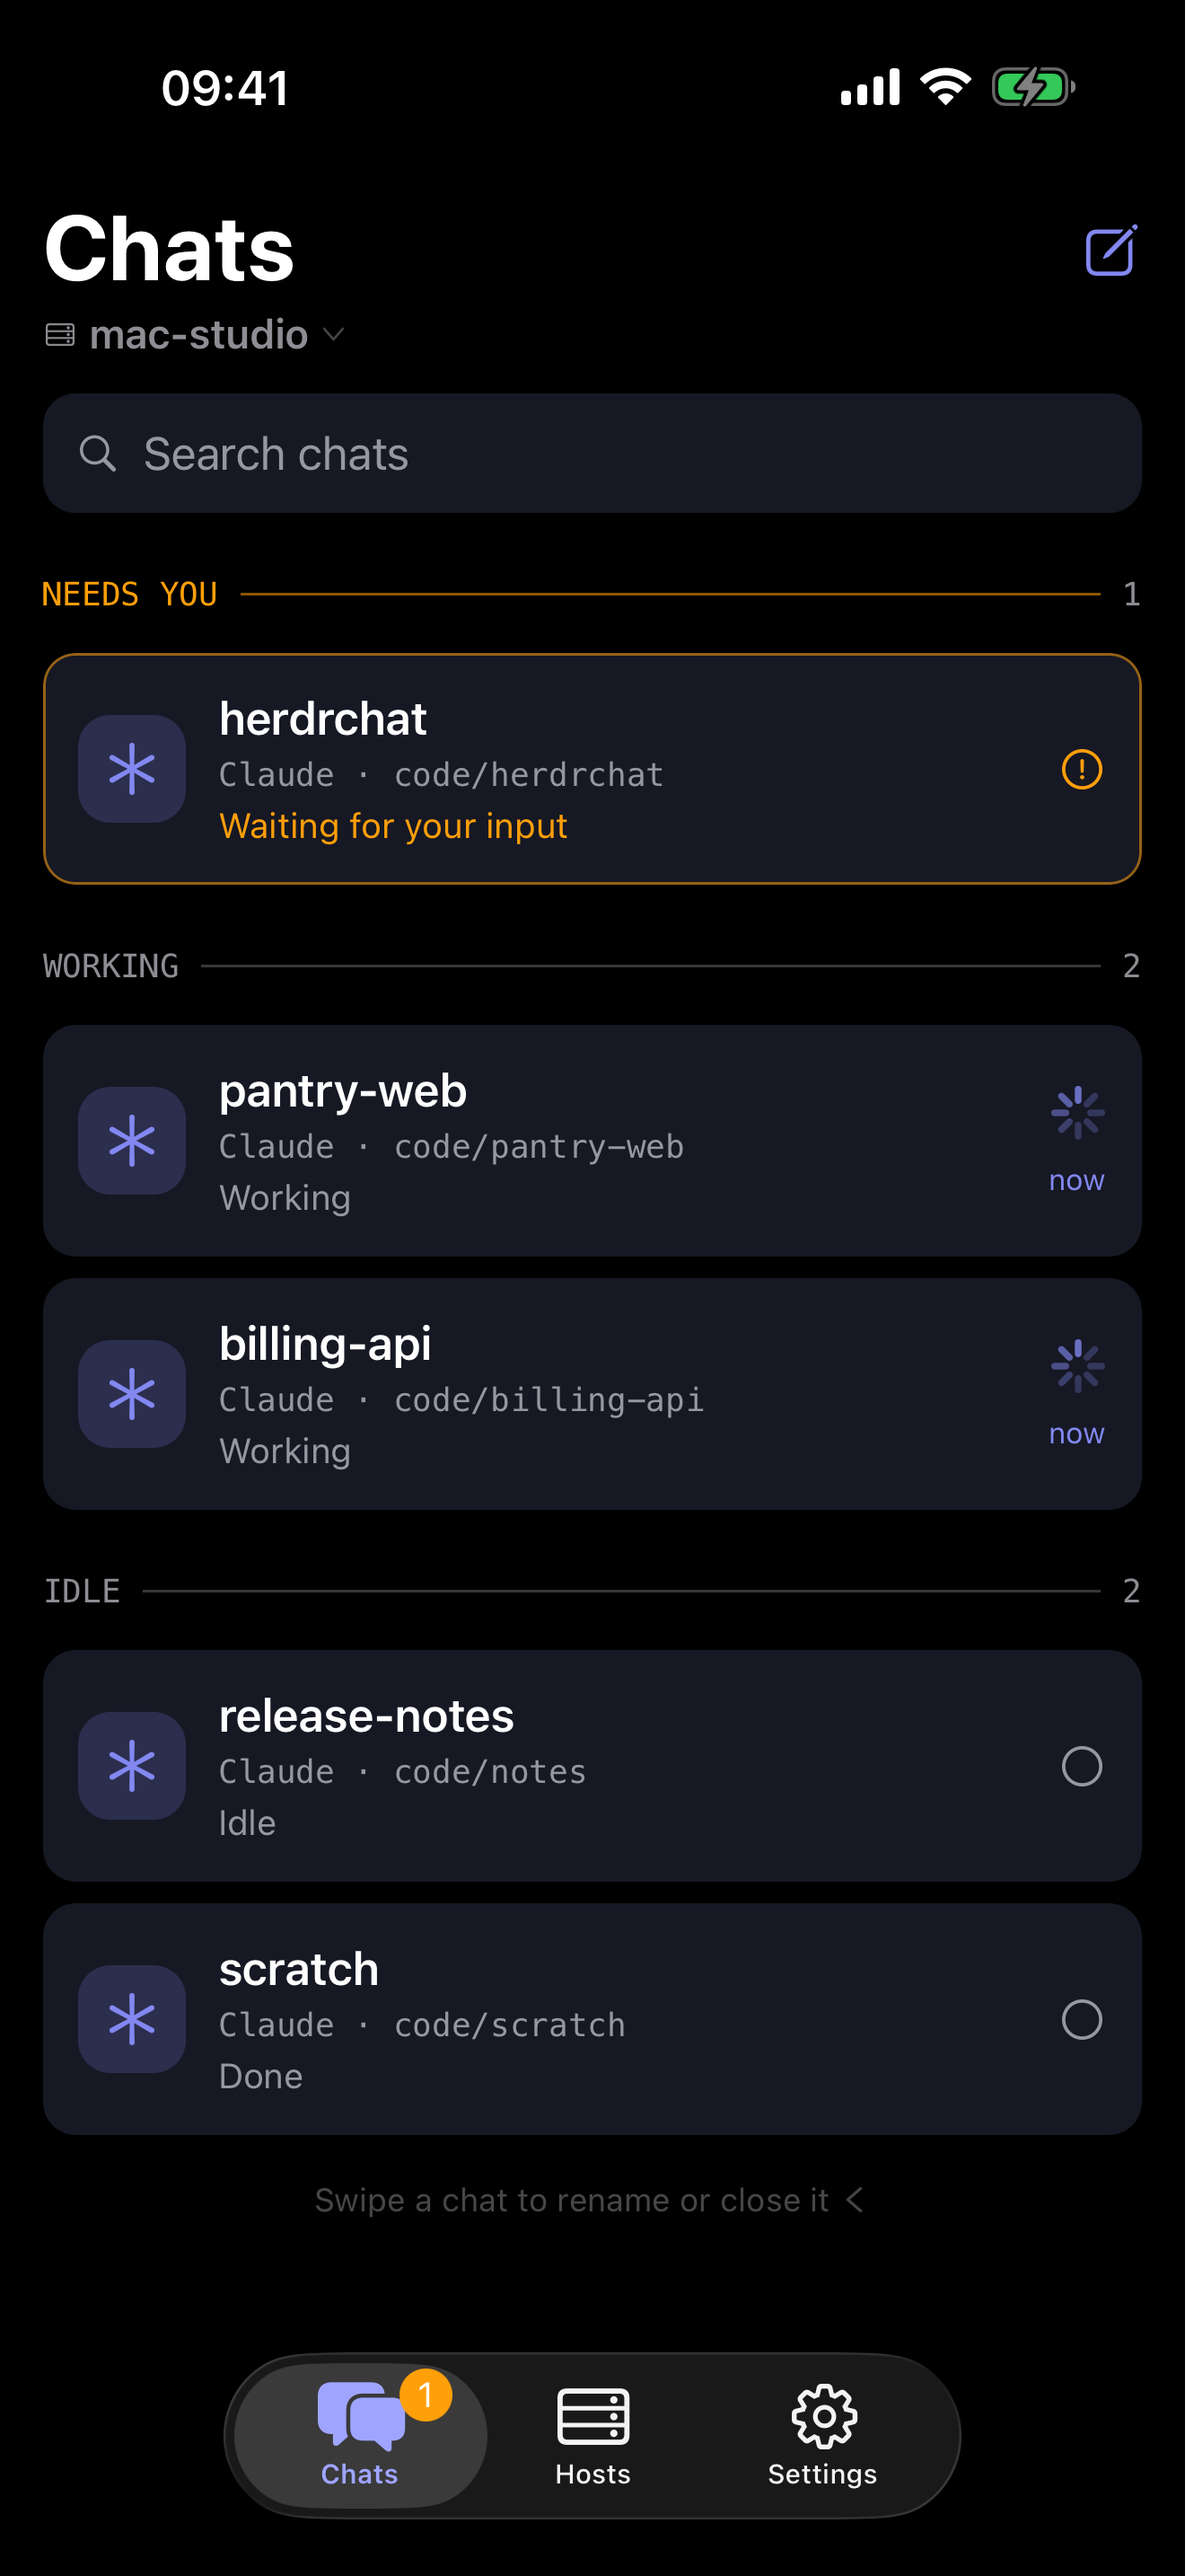
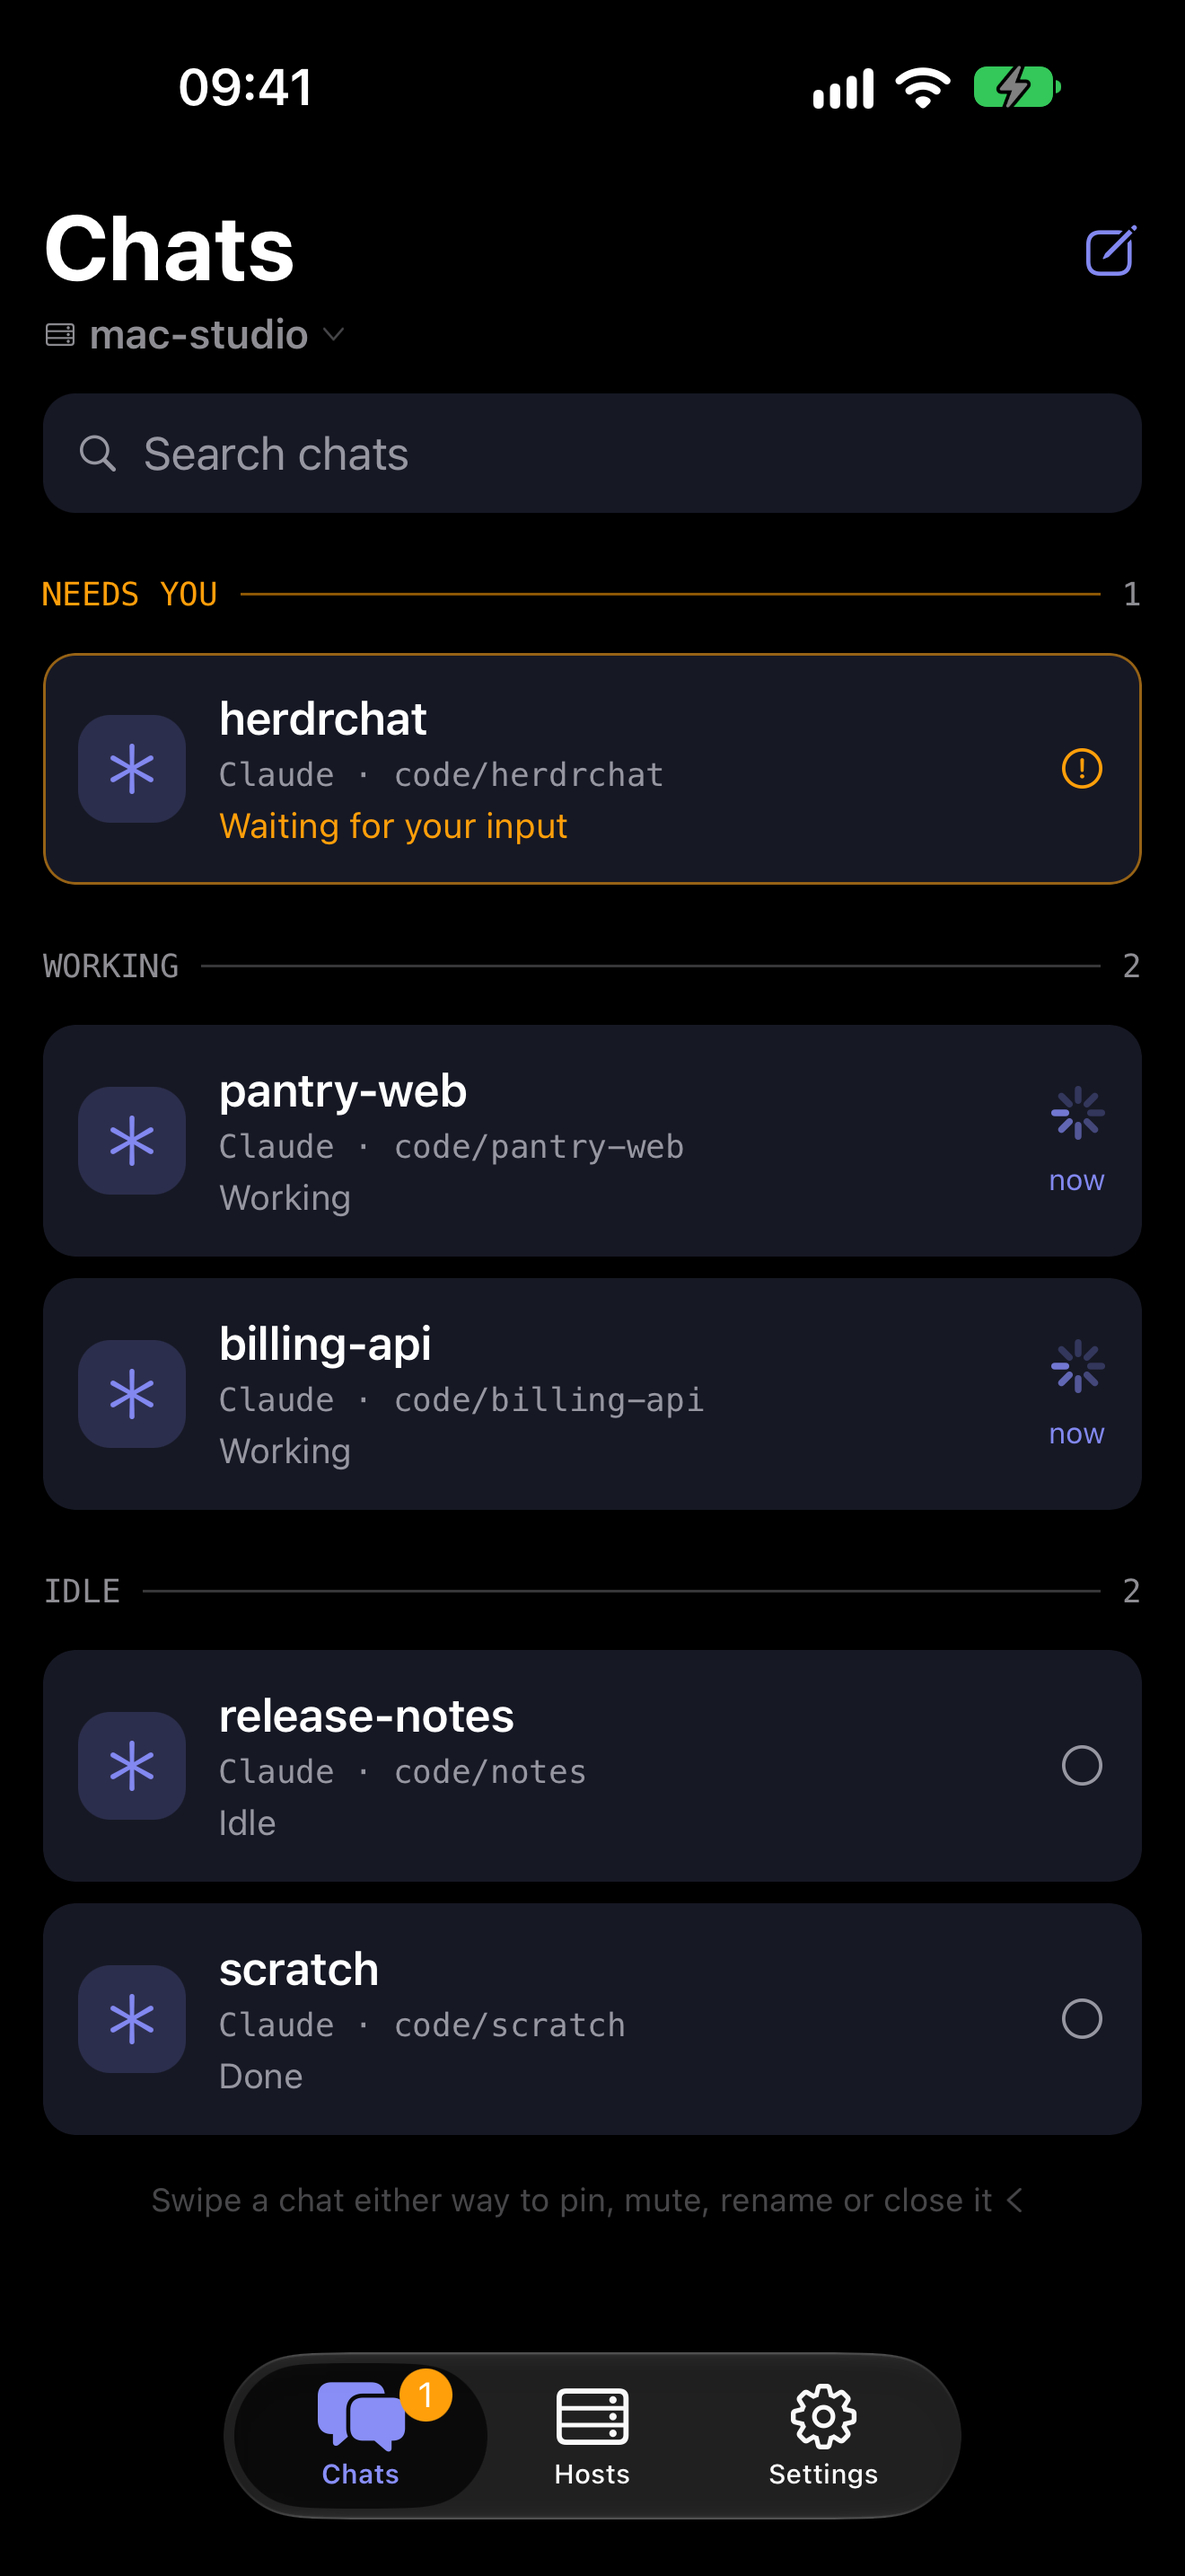
Retake the App Store pictures in the new design, and add two
The store still showed agent replies in bubbles and chips for tool calls.
The raw screens are retaken from the current app, and two pictures are
added: slash commands (the /model panel) and pin and mute.

store/enrich-demo.py now makes the Demo edits the screens need, so a
retake is a script and a revert rather than hand edits nobody kept.

diff --git a/store/slides.html b/store/slides.html
@@ -316,6 +316,8 @@ const ipadFrame = (src, style) => `
 const icon = {
   lock: '<svg viewBox="0 0 24 24" fill="none" stroke="currentColor" stroke-width="2" stroke-linecap="round" stroke-linejoin="round"><rect x="4" y="10.5" width="16" height="10.5" rx="2.5"/><path d="M8 10.5V7a4 4 0 0 1 8 0v3.5"/></svg>',
   key: '<svg viewBox="0 0 24 24" fill="none" stroke="currentColor" stroke-width="2" stroke-linecap="round" stroke-linejoin="round"><circle cx="8" cy="15" r="4.5"/><path d="m11.5 11.5 8-8M16.5 6.5l2.5 2.5M14 9l2 2"/></svg>',
+  pin: '<svg viewBox="0 0 24 24" fill="none" stroke="currentColor" stroke-width="2" stroke-linecap="round" stroke-linejoin="round"><path d="M9 3h6l-1 6 4 3v2H6v-2l4-3z"/><path d="M12 14v7"/></svg>',
+  mute: '<svg viewBox="0 0 24 24" fill="none" stroke="currentColor" stroke-width="2" stroke-linecap="round" stroke-linejoin="round"><path d="M6 8a6 6 0 0 1 9.5-4.9M18 11v2l2 3H8"/><path d="M10 20a2 2 0 0 0 4 0"/><path d="M3 3l18 18"/></svg>',
   user: '<svg viewBox="0 0 24 24" fill="none" stroke="currentColor" stroke-width="2" stroke-linecap="round" stroke-linejoin="round"><path d="M3 3l18 18"/><circle cx="12" cy="8" r="3.5"/><path d="M5 20a7 7 0 0 1 11.3-5.5"/></svg>',
 };
 
@@ -374,7 +376,18 @@ const iphone = [
       <div class="opt"><b>2</b>No, tell me more first</div>
           </div>
   `,
-  // 4. Notifications.
+  // 4. Slash commands.
+  () => `
+    <div class="glow" style="width:1200px;height:1200px;right:-300px;top:1600px;background:#4b50c8"></div>
+    <div class="grid"></div>
+    <div class="copy">
+      <div class="eyebrow"><i></i>Slash commands</div>
+      <h1>Switch the model <span class="tint">from your phone.</span></h1>
+      <p class="sub">Type / for /model, /effort and more. The picker opens right in the chat.</p>
+    </div>
+    ${phone('slash.png', '--w:900px;left:210px;top:980px')}
+  `,
+  // 5. Notifications.
   () => `
     <div class="glow" style="width:1200px;height:1200px;right:-300px;top:1300px;background:#4b50c8"></div>
     <div class="grid"></div>
@@ -392,7 +405,7 @@ const iphone = [
         </div>
       </div>`, '--w:960px;left:180px;top:1100px')}
   `,
-  // 5. Pictures.
+  // 6. Pictures.
   () => `
     <div class="glow" style="width:1200px;height:1200px;left:-200px;top:1500px;background:#1f7a55"></div>
     <div class="grid"></div>
@@ -404,7 +417,22 @@ const iphone = [
     ${phone('picture.png', '--w:780px;left:470px;top:1080px')}
     <div class="float shot" style="left:60px;top:1290px;transform:rotate(-5deg)"><img src="raw/pantry-login.png"></div>
   `,
-  // 6. Privacy.
+  // 7. Pin and mute.
+  () => `
+    <div class="glow" style="width:1100px;height:1100px;left:-300px;top:1400px;background:#a86208"></div>
+    <div class="grid"></div>
+    <div class="copy">
+      <div class="eyebrow" style="color:var(--amber)"><i></i>Pin &amp; mute</div>
+      <h1>Pin what matters. <span class="amber">Quiet the rest.</span></h1>
+      <p class="sub">Swipe a chat to keep it on top, or to turn off its notifications.</p>
+    </div>
+    ${phone('pinned.png', '--w:960px;left:180px;top:1100px')}
+    <div class="chips" style="top:2560px;flex-direction:row;gap:24px">
+      <div class="chip" style="flex:1">${icon.pin}<div>Pinned<br>to the top</div></div>
+      <div class="chip" style="flex:1">${icon.mute}<div>Muted<br>per chat</div></div>
+    </div>
+  `,
+  // 8. Privacy.
   () => `
     <div class="glow" style="width:1300px;height:1300px;left:0;top:900px;background:#3a3e9a"></div>
     <div class="grid"></div>

diff --git a/store/enrich-demo.py b/store/enrich-demo.py
@@ -1,0 +1,94 @@
+#!/usr/bin/env python3
+"""Enrich the Demo host for the App Store screens, in place. Never commit the result.
+
+    python3 store/enrich-demo.py          # apply
+    git checkout -- src/lib/demo/fixtures.ts src/state/connections.ts   # undo
+
+Five chats on a host named mac-studio: one waiting on a question after a run
+of tool calls, two working (one with a picture sent from the phone), one idle,
+one done. The picture only shows once the phone holds its copy: put
+store/raw/pantry-login.png in the app's Documents/attachments/ (see README).
+"""
+import pathlib
+import re
+
+ROOT = pathlib.Path(__file__).resolve().parent.parent
+FIXTURES = ROOT / 'src/lib/demo/fixtures.ts'
+CONNECTIONS = ROOT / 'src/state/connections.ts'
+
+WORKSPACES = """export const DEMO_WORKSPACES: readonly DemoWorkspace[] = [
+  { workspaceId: 'w1', label: 'herdrchat', number: 1, paneId: 'w1:p1', cwd: '/home/demo/code/herdrchat', agentStatus: 'blocked' },
+  { workspaceId: 'w2', label: 'pantry-web', number: 2, paneId: 'w2:p1', cwd: '/home/demo/code/pantry-web', agentStatus: 'working' },
+  { workspaceId: 'w3', label: 'billing-api', number: 3, paneId: 'w3:p1', cwd: '/home/demo/code/billing-api', agentStatus: 'working' },
+  { workspaceId: 'w4', label: 'release-notes', number: 4, paneId: 'w4:p1', cwd: '/home/demo/code/notes', agentStatus: 'idle' },
+  { workspaceId: 'w5', label: 'scratch', number: 5, paneId: 'w5:p1', cwd: '/home/demo/code/scratch', agentStatus: 'done' },
+];
+"""
+
+SESSIONS = """export const DEMO_SESSION_IDS: Readonly<Record<string, string>> = {
+  'w1:p1': '11111111-1111-4111-8111-111111111111',
+  'w2:p1': '22222222-2222-4222-8222-222222222222',
+  'w3:p1': '33333333-3333-4333-8333-333333333333',
+  'w4:p1': '44444444-4444-4444-8444-444444444444',
+  'w5:p1': '55555555-5555-4555-8555-555555555555',
+};
+"""
+
+SEEDS = r"""const at = (minute: number) => `2026-09-28T06:${String(minute).padStart(2, '0')}:00.000Z`;
+const say = (uuid: string, minute: number, text: string) =>
+  line({ type: 'assistant', uuid, timestamp: at(minute), model: MODEL, content: [{ type: 'text', text }] });
+const ask = (uuid: string, minute: number, content: unknown) => line({ type: 'user', uuid, timestamp: at(minute), content });
+const tool = (uuid: string, minute: number, name: string, input: Record<string, unknown>, result: string, failed = false) => [
+  line({ type: 'assistant', uuid: `${uuid}-use`, timestamp: at(minute), model: MODEL, content: [{ type: 'tool_use', id: `toolu_${uuid}`, name, input }] }),
+  line({ type: 'user', uuid: `${uuid}-result`, timestamp: at(minute), content: [{ type: 'tool_result', tool_use_id: `toolu_${uuid}`, content: result, ...(failed ? { is_error: true } : {}) }] }),
+];
+
+const SEEDS: Readonly<Record<string, readonly string[]>> = {
+  'w1:p1': [
+    ask('d1-1', 10, 'the folder picker says "No subfolders here" even when the read failed. can you look?'),
+    ...tool('d1-t1', 10, 'Bash', { command: 'rg -n "; true" src/lib' }, 'src/lib/herdr/client.ts:329:    ls -1p ... ; true'),
+    ...tool('d1-t2', 10, 'Read', { file_path: 'src/lib/herdr/client.ts' }, '…'),
+    ...tool('d1-t3', 11, 'Bash', { command: 'npm test -- directories' }, 'FAIL  src/lib/__tests__/directories.test.ts\n  1 failed, 12 passed', true),
+    say('d1-2', 12, "Found it. `listDirectories` appends `; true`, so an unreadable path exits 0. An empty folder, a wrong path and a dropped connection all look the same.\n\nI'll split the error from the empty state and give the error a Retry."),
+    ask('d1-3', 12, 'nice 🎯 ship it'),
+    say('d1-4', 13, 'Before I write to `client.ts`: this changes what every caller of `listDirectories` sees on failure. Want me to go ahead?'),
+  ],
+  'w2:p1': [
+    ask('d2-1', 19, 'the sign in button slides under the footer on small phones. can you fix it?\n/home/demo/.cache/herdrchat/uploads/pantry-login.png'),
+    ...tool('d2-t1', 19, 'Read', { file_path: 'src/components/SignInForm.tsx' }, '…'),
+    ...tool('d2-t2', 19, 'Grep', { pattern: 'position: fixed' }, 'src/components/Footer.css:4'),
+    ...tool('d2-t3', 20, 'Read', { file_path: 'src/components/Footer.css' }, '…'),
+    say('d2-2', 20, "I see it. The footer is `position: fixed` and the form never leaves room for it, so on a short screen **Sign in** ends up underneath.\n\nI'll reserve the footer's height at the bottom of the form and let the footer sit in the normal flow below 700px."),
+  ],
+  'w3:p1': [
+    ask('d3-1', 25, 'add idempotency keys to the charge endpoint'),
+    ...tool('d3-t1', 25, 'Read', { file_path: 'src/routes/charges.ts' }, '…'),
+    ...tool('d3-t2', 26, 'Edit', { file_path: 'src/routes/charges.ts', old_string: 'a', new_string: 'b' }, 'The file has been updated.'),
+  ],
+  'w4:p1': [
+    ask('d4-1', 5, 'summarise the release notes into three bullets'),
+    say('d4-2', 5, '- Host keys are pinned on first contact and shown as `SHA256:…`\n- The transcript cursor no longer skips a message on a lossy decode\n- Blocked prompts disable their options while a reply is in flight'),
+  ],
+  'w5:p1': [
+    ask('d5-1', 1, 'scratch pad, nothing running here'),
+    say('d5-2', 1, 'Ready when you are.'),
+  ],
+};
+"""
+
+
+def replace_block(text: str, start: str, end_pattern: str, new: str) -> str:
+    begin = text.index(start)
+    end = re.compile(end_pattern, re.M).search(text, begin).end()
+    return text[:begin] + new + text[end + 1:]
+
+
+text = FIXTURES.read_text()
+text = replace_block(text, 'export const DEMO_WORKSPACES', r'^\];$', WORKSPACES)
+text = replace_block(text, 'export const DEMO_SESSION_IDS', r'^\};$', SESSIONS)
+text = replace_block(text, 'const SEEDS', r'^\};$', SEEDS)
+FIXTURES.write_text(text)
+
+connections = CONNECTIONS.read_text()
+CONNECTIONS.write_text(connections.replace("name: 'Demo',\n    host: 'demo.local',", "name: 'mac-studio',\n    host: 'demo.local',", 1))
+print('Demo enriched. Undo: git checkout -- src/lib/demo/fixtures.ts src/state/connections.ts')

diff --git a/store/README.md b/store/README.md
@@ -9,12 +9,24 @@ store/render.sh             # all slides
 store/render.sh iphone 3    # one slide
 ```
 
-`raw/` holds the app screens inside the frames. They are real screens from the
-iPhone 17 Pro Max and iPad Pro 13" simulators, taken on the demo host with its
-fixtures temporarily enriched (five chats, a host named `mac-studio`, a chat
-with a picture). Those fixture edits are not committed; to retake a screen,
-make them again, capture with `xcrun simctl io <udid> screenshot`, and revert.
-`raw/pantry-login.png` is a made-up web page used as the sent picture.
+`raw/` holds the app screens inside the frames. They are real screens from an
+iPhone Pro Max (1320x2868) and an iPad Pro 13" (landscape, 2752x2064)
+simulator, taken on the Demo host enriched by `enrich-demo.py` (five chats, a
+host named `mac-studio`, a run of tool calls, a chat with a picture):
+
+```bash
+python3 store/enrich-demo.py      # never commit what it changes
+# copy raw/pantry-login.png to the app's Documents/attachments/
+xcrun simctl status_bar <udid> override --time 9:41 ...
+xcrun simctl io <udid> screenshot store/raw/<name>.png
+git checkout -- src/lib/demo/fixtures.ts src/state/connections.ts
+```
+
+`slash.png` is `/model` sent in release-notes with Sonnet under the cursor;
+`pinned.png` is release-notes pinned and muted with herdrchat swiped right.
+`raw/pantry-login.png` is a made-up web page used as the sent picture. The iPad
+simulator runs in English so the status bar reads "Thu Oct 1", not a
+translation.
 
 The words, the frames and the callouts are HTML. Keep the copy true to the app:
 a callout repeats something on the screen, it never shows a feature that is not
